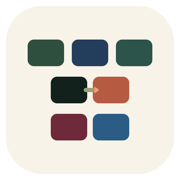
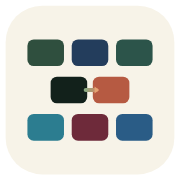
Chemie-Kachel auf der Startseite und Chemie-Abschnitt auf der Schulseite
Claude-Session: https://claude.ai/code/session_01NpXg3GLKi8NCRmbAZwgfdZ

diff --git a/schule/index.html b/schule/index.html
@@ -4,7 +4,7 @@
 <meta charset="UTF-8">
 <meta name="viewport" content="width=device-width, initial-scale=1, viewport-fit=cover">
 <title>Mibaso für den Unterricht — Lernangebote für Schule und Bildung</title>
-<meta name="description" content="Kostenlose, werbefreie Lern-Apps für Biologie und Geschichte. Ohne Anmeldung, ohne Datenerhebung, offline nutzbar — von Michael Baur.">
+<meta name="description" content="Kostenlose, werbefreie Lern-Apps für Biologie, Chemie und Geschichte. Ohne Anmeldung, ohne Datenerhebung, offline nutzbar — von Michael Baur.">
 <link rel="canonical" href="https://mibaso.de/schule/">
 <link rel="manifest" href="manifest.webmanifest">
 <link rel="icon" href="../assets/favicon-32.png" sizes="32x32">
@@ -57,6 +57,7 @@
   .fach{margin-bottom:clamp(30px,5vw,46px);--akzent:var(--gruen);}
   .fach.gesch{--akzent:#B65A42;}
   .fach.evo{--akzent:#9C6B2E;}
+  .fach.chem{--akzent:#1E5C6C;}
   .fach > h2{font-size:clamp(21px,4vw,28px);font-weight:normal;color:var(--akzent);
     padding-bottom:8px;border-bottom:2px solid var(--akzent);margin-bottom:6px;}
   .fach > .fsub{font-family:var(--sans);font-size:13.5px;color:var(--leise);margin-bottom:16px;}
@@ -185,7 +186,7 @@
   .sprung a{font-family:var(--sans);font-size:13.5px;text-decoration:none;
     border:1.5px solid var(--c);color:var(--c);border-radius:999px;padding:7px 16px;}
   .sprung a:hover{background:color-mix(in srgb, var(--c) 10%, transparent);}
-  .sprung .s-bio{--c:#2F4F3E;} .sprung .s-gesch{--c:#B65A42;} .sprung .s-evo{--c:#9C6B2E;}
+  .sprung .s-bio{--c:#2F4F3E;} .sprung .s-gesch{--c:#B65A42;} .sprung .s-evo{--c:#9C6B2E;} .sprung .s-chem{--c:#1E5C6C;}
   .fach{scroll-margin-top:14px;}
   html{scroll-behavior:smooth;}
 
@@ -244,12 +245,13 @@
 
   <nav class="sprung" aria-label="Zu den Fächern springen">
     <a href="#biologie" class="s-bio">Biologie</a>
+    <a href="#chemie" class="s-chem">Chemie</a>
     <a href="#geschichte" class="s-gesch">Geschichte</a>
     <a href="#erdgeschichte" class="s-evo">Erdgeschichte</a>
   </nav>
 
   <p class="kc-hinweis">Die Angaben zum Kerncurriculum beziehen sich auf die hessischen
-  Kerncurricula für Biologie und Geschichte (Sekundarstufe I) sowie Sachunterricht
+  Kerncurricula für Biologie, Chemie und Geschichte (Sekundarstufe I) sowie Sachunterricht
   (Primarstufe).</p>
 
   <!-- ===================== BIOLOGIE ===================== -->
@@ -439,6 +441,93 @@
     </div>
   </section>
 
+
+  <!-- ===================== CHEMIE ===================== -->
+  <section class="fach chem" id="chemie">
+    <h2>Chemie</h2>
+    <p class="fsub">Fünf Expeditionen, jede passend für eine Schulstunde — ideal auch für
+    die Vertretungsstunde. Kurze Versuchsfilme ohne Ton, Animationen zum Ausprobieren und
+    nach jeder Station drei Fragen. Im Laborpass sammeln die Schülerinnen und Schüler
+    Tropfen, Ränge und Abzeichen; am Ende drucken sie eine Urkunde mit ihrem Namen aus.</p>
+    <div class="karten">
+
+      <article class="karte">
+        <h3>Säuren I — Sauer erkennen</h3>
+        <p class="was">Säuren im Alltag und im Labor: gefährlich oder harmlos, was alle
+        Säuren gemeinsam haben, Indikatoren wie Rotkohlsaft und der pH-Wert.</p>
+        <div class="marker"><span>Kl. 7–9</span><span>ca. 40 Min</span><span>Handy, Tablet oder Beamer</span><span>🔇 ohne Ton</span></div>
+        <ul>
+          <li>Säure-Steckbrief und Sortierspiele</li>
+          <li>Rotkohl-Indikator zum Ausprobieren</li>
+          <li>pH-Skala mit Alltagsstoffen</li>
+        </ul>
+        <a class="los" href="https://chemie.mibaso.de/#e1">Expedition öffnen</a>
+        <p class="kc"><b>Kerncurriculum:</b> Schatzkiste der Natur – Chemie in Alltag und Technik · Welt der Stoffe</p>
+        <div class="adresse">chemie.mibaso.de</div>
+      </article>
+
+      <article class="karte">
+        <h3>Säuren II — Wie Säuren entstehen</h3>
+        <p class="was">Von der Kohlensäure über CO₂, Klima und sauren Regen bis zum
+        Springbrunnen-Versuch und dem Zerfall der Säuren in Ionen.</p>
+        <div class="marker"><span>Kl. 8–10</span><span>ca. 40 Min</span><span>Handy, Tablet oder Beamer</span><span>🔇 ohne Ton</span></div>
+        <ul>
+          <li>Kohlenstoffdioxid-Kreislauf zum Antippen</li>
+          <li>Springbrunnen-Versuch als Animation</li>
+          <li>Elektrolytische Dissoziation im Teilchenmodell</li>
+        </ul>
+        <a class="los" href="https://chemie.mibaso.de/#e2">Expedition öffnen</a>
+        <p class="kc"><b>Kerncurriculum:</b> Schatzkiste der Natur – Chemie in Alltag und Technik · Verwandlungen – Chemische Reaktion</p>
+        <div class="adresse">chemie.mibaso.de</div>
+      </article>
+
+      <article class="karte">
+        <h3>Laugen — Seifig, glitschig, alkalisch</h3>
+        <p class="was">Vom Seifenstück bis zur Brezel: wie Laugen entstehen, was sie
+        gemeinsam haben und was passiert, wenn Säure auf Lauge trifft.</p>
+        <div class="marker"><span>Kl. 8–10</span><span>ca. 40 Min</span><span>Handy, Tablet oder Beamer</span><span>🔇 ohne Ton</span></div>
+        <ul>
+          <li>Metall trifft Wasser als Animation</li>
+          <li>Ammoniak-Springbrunnen im Film</li>
+          <li>Neutralisation Schritt für Schritt</li>
+        </ul>
+        <a class="los" href="https://chemie.mibaso.de/#e3">Expedition öffnen</a>
+        <p class="kc"><b>Kerncurriculum:</b> Schatzkiste der Natur – Chemie in Alltag und Technik</p>
+        <div class="adresse">chemie.mibaso.de</div>
+      </article>
+
+      <article class="karte">
+        <h3>Salze — Das Salz in der Suppe</h3>
+        <p class="was">Aus zwei Giften wird ein Gewürz: Natrium trifft Chlor, das
+        Ionengitter, Salze lösen, Kristalle züchten und Salze benennen.</p>
+        <div class="marker"><span>Kl. 8–10</span><span>ca. 40 Min</span><span>Handy, Tablet oder Beamer</span><span>🔇 ohne Ton</span></div>
+        <ul>
+          <li>Elektronenübergang als Animation</li>
+          <li>Ionengitter und Sprödigkeit zum Ausprobieren</li>
+          <li>Salz-Baukasten für Formeln und Namen</li>
+        </ul>
+        <a class="los" href="https://chemie.mibaso.de/#e4">Expedition öffnen</a>
+        <p class="kc"><b>Kerncurriculum:</b> Schatzkiste der Natur – Chemie in Alltag und Technik · Blick hinter die Kulissen – Aufbau von Stoffen und chemische Bindung</p>
+        <div class="adresse">chemie.mibaso.de</div>
+      </article>
+
+      <article class="karte">
+        <h3>Bindungen — Was die Stoffe zusammenhält</h3>
+        <p class="was">Warum Atome sich verbinden: Elektronenpaarbindung, Moleküle bauen,
+        das besondere Wassermolekül und die Metallbindung.</p>
+        <div class="marker"><span>Kl. 9–10</span><span>ca. 40 Min</span><span>Handy, Tablet oder Beamer</span><span>🔇 ohne Ton</span></div>
+        <ul>
+          <li>Molekül-Baukasten mit Elektronen- und Strichformel</li>
+          <li>Tauziehen um das Elektronenpaar</li>
+          <li>Elektronengas mit Strom und Hammerschlag</li>
+        </ul>
+        <a class="los" href="https://chemie.mibaso.de/#e5">Expedition öffnen</a>
+        <p class="kc"><b>Kerncurriculum:</b> Blick hinter die Kulissen – Aufbau von Stoffen und chemische Bindung</p>
+        <div class="adresse">chemie.mibaso.de</div>
+      </article>
+
+    </div>
+  </section>
 
   <section class="fach gesch" id="geschichte">
     <h2>Geschichte</h2>

diff --git a/index.html b/index.html
@@ -4,12 +4,12 @@
 <meta charset="UTF-8">
 <meta name="viewport" content="width=device-width, initial-scale=1, viewport-fit=cover">
 <title>Mibaso — Meine digitale Naturwerkstatt</title>
-<meta name="description" content="Alle Mibaso-Apps auf einen Blick: Flora, Fauna, Bio, Große Zeitreise, Historia, Kochen und Media.">
+<meta name="description" content="Alle Mibaso-Apps auf einen Blick: Flora, Fauna, Bio, Chemie, Große Zeitreise, Historia, Kochen und Media.">
 <link rel="canonical" href="https://mibaso.de/">
-<link rel="manifest" href="manifest.webmanifest?v=18">
-<link rel="icon" href="assets/favicon-32.png?v=2" sizes="32x32">
-<link rel="icon" href="assets/icon.svg?v=2" type="image/svg+xml">
-<link rel="apple-touch-icon" href="assets/apple-touch-icon.png?v=2">
+<link rel="manifest" href="manifest.webmanifest?v=19">
+<link rel="icon" href="assets/favicon-32.png?v=3" sizes="32x32">
+<link rel="icon" href="assets/icon.svg?v=3" type="image/svg+xml">
+<link rel="apple-touch-icon" href="assets/apple-touch-icon.png?v=3">
 <meta name="theme-color" content="#2F4F3E">
 <meta name="apple-mobile-web-app-capable" content="yes">
 <meta name="apple-mobile-web-app-status-bar-style" content="black-translucent">
@@ -58,6 +58,7 @@
   .app.historia{background:linear-gradient(150deg,#C66B49,#8F3F30);}
   .app.kochen{background:linear-gradient(150deg,#6E2A3A,#4A1C27);}
   .app.media {background:linear-gradient(150deg,#3E7CB1,#2A5C86);}
+  .app.chemie{background:linear-gradient(150deg,#2C7D90,#1E5C6C);}
 
   /* Die beiden Geschichts-Apps bleiben getrennte Tafeln. Nur der kurze
      Farbverlauf mit Pfeil verbindet die große Zeitreise mit Historia. */
@@ -131,7 +132,7 @@
     .willkommen{margin-top:clamp(20px,3.5vw,32px);}
   }
 
-  /* Handys: alle sieben Ziele samt Fußbereich auf einen Blick. Die Tafeln
+  /* Handys: alle acht Ziele samt Fußbereich auf einen Blick. Die Tafeln
      bleiben gut tippbar, nutzen die knappe Höhe aber deutlich besser. */
   @media (max-width:600px){
     main{padding:max(34px,calc(env(safe-area-inset-top) + 14px)) 10px 5px;
@@ -233,6 +234,16 @@
     footer .chips{display:none;}
     footer .klein{font-size:9.5px;line-height:1.3;}
   }
+  /* Acht Apps am Handy: ein gemeinsames Zweier-Raster in vier Reihen.
+     Bio und Chemie stehen nebeneinander, die Zeitreise behält ihren Pfeil zu Historia. */
+  @media (max-width:600px){
+    .apps{display:grid;grid-template-columns:repeat(2,minmax(0,1fr));}
+    .app-reihe.drei{display:contents;}
+    .app-reihe.drei .app:last-child{grid-column:auto;width:auto;justify-self:stretch;}
+    .geschichte{grid-column:1 / -1;order:5;}
+    .app.flora{order:1;} .app.fauna{order:2;} .app.bio{order:3;} .app.chemie{order:4;}
+    .app.kochen{order:6;} .app.media{order:7;}
+  }
 </style>
 </head>
 <body>
@@ -276,7 +287,12 @@
       </a>
     </div>
 
-    <div class="app-reihe zwei">
+    <div class="app-reihe drei">
+      <a class="app chemie" href="https://chemie.mibaso.de">
+        <span class="app-kopf"><span class="ic" aria-hidden="true">🧪</span><span class="nm">Chemie</span></span>
+        <span class="tx">Säuren, Laugen, Salze &amp; Co.</span>
+        <span class="pf" aria-hidden="true">›</span>
+      </a>
       <a class="app kochen" href="https://kochen.mibaso.de">
         <span class="app-kopf"><span class="ic" aria-hidden="true">🍳</span><span class="nm">Kochen</span></span>
         <span class="tx">Meine Lieblingsrezepte</span>
@@ -312,7 +328,7 @@
         <p><strong>Android:</strong> Oben rechts auf die <em>drei Punkte</em> tippen,
         dann <em>„App installieren“</em> bzw. <em>„Zum Startbildschirm hinzufügen“</em>.</p>
         <p class="hinweis">Danach liegt mibaso.de wie eine echte App auf deinem
-        Startbildschirm – alle sieben Apps nur einen Fingertipp entfernt.</p>
+        Startbildschirm – alle acht Apps nur einen Fingertipp entfernt.</p>
       </div>
     </div>
   </div>

diff --git a/sw.js b/sw.js
@@ -1,6 +1,6 @@
 /* Mibaso-Start – Service Worker, network-first (immer aktuell), offline aus dem Cache. */
 const VERSION = 'start-shell-v26';
-const KERN = ['./', './index.html', './ueber/', './impressum/', './schule/', './manifest.webmanifest?v=18', './assets/icon.svg?v=2', './assets/icon-192.png?v=2'];
+const KERN = ['./', './index.html', './ueber/', './impressum/', './schule/', './manifest.webmanifest?v=19', './assets/icon.svg?v=3', './assets/icon-192.png?v=3'];
 
 self.addEventListener('install', e => {
   e.waitUntil(caches.open(VERSION).then(c => c.addAll(KERN)).then(() => self.skipWaiting()));
